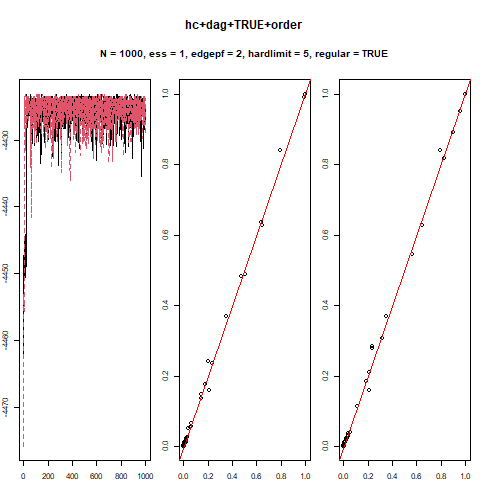
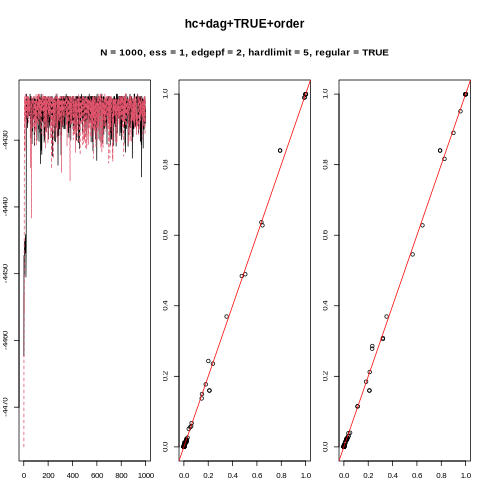
run simulations

diff --git a/simulations/LDAG10_2/convergence_plots/plots.md b/simulations/LDAG10_2/convergence_plots/plots.md
@@ -8,6 +8,7 @@
 ## LDAG 
 ![LDAG10_pcskel_ldag_order_TRUE_.png](LDAG10_pcskel_ldag_order_TRUE_.png)
 ![LDAG10_pcskel_ldag_partition_TRUE_.png](LDAG10_pcskel_ldag_partition_TRUE_.png)
+![LDAG10_pcskel_ldag_order_FALSE_.png](LDAG10_pcskel_ldag_order_FALSE_.png)
 ![LDAG10_pcskel_ldag_partition_FALSE_.png](LDAG10_pcskel_ldag_partition_FALSE_.png)
 
 ## TREE 
